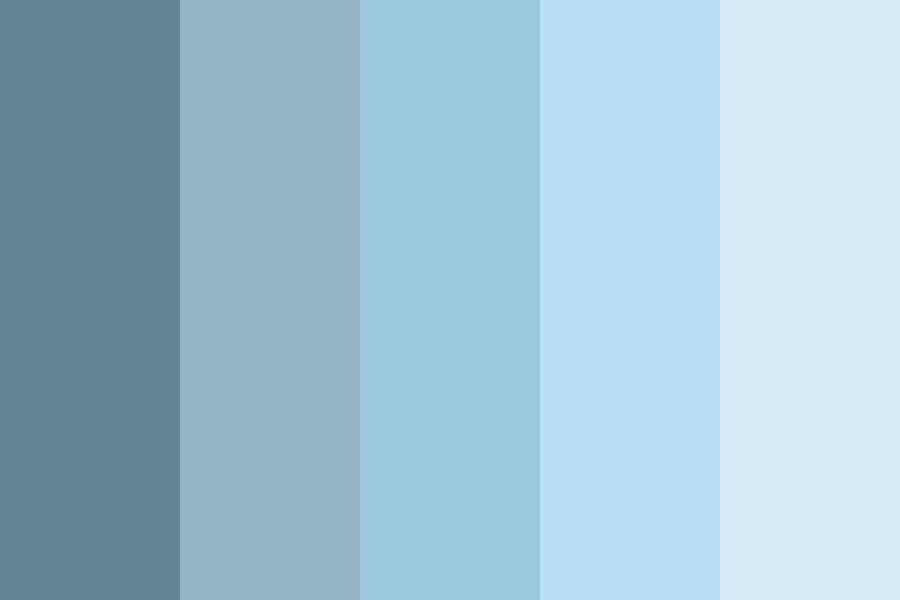
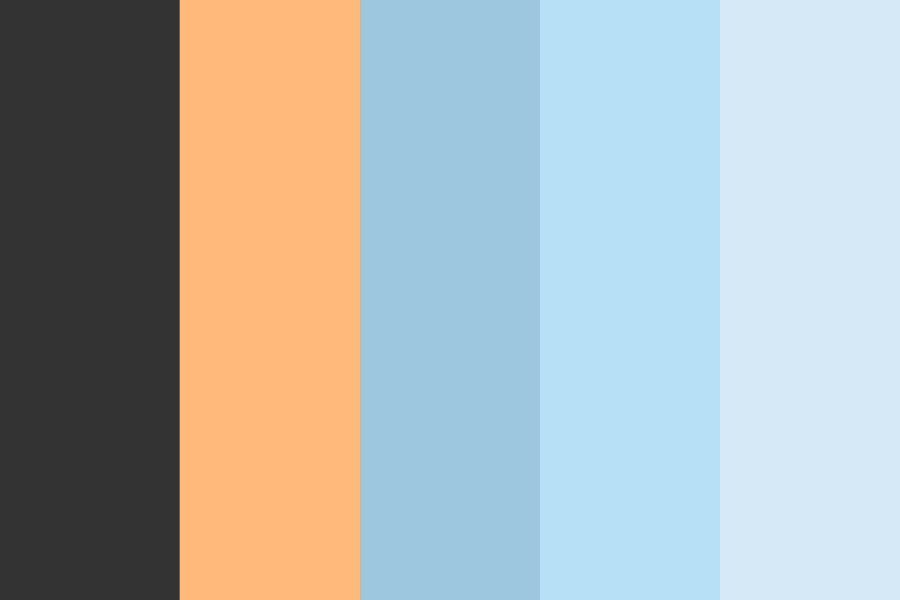
Site navigation Test run

diff --git a/index.html b/index.html
@@ -6,30 +6,132 @@
   <title>Imagination Printing</title>
     <link rel="stylesheet" href="css/main.css">
     <link rel="stylesheet" href="css/header.css">
+    <link rel="stylesheet" href="css/navigation.css">
+
+
+
+    <script>
+        function setCookie(cname, cvalue, exdays) {
+          var d = new Date();
+          d.setTime(d.getTime() + (exdays*24*60*60*1000));
+          var expires = "expires="+ d.toUTCString();
+          document.cookie = cname + "=" + cvalue + ";" + expires + ";path=/";
+          console.log(document.cookie)
+        }
+        
+        function getCookie(cname) {
+          var name = cname + "=";
+          var decodedCookie = decodeURIComponent(document.cookie);
+          var ca = decodedCookie.split(';');
+          for(var i = 0; i < ca.length; i++) {
+            var c = ca[i];
+            while (c.charAt(0) == ' ') {
+              c = c.substring(1);
+            }
+            if (c.indexOf(name) == 0) {
+              return c.substring(name.length, c.length);
+            }
+          }
+          return "";
+        }
+        function checkPage(cvalue) {
+          var c=getCookie('currentpage');
+          if (c == "") {
+            setCookie("currentpage", cvalue, 30);
+          }
+        }
+        
+        pages = ["home","about","gallery","services","contact"]
+        
+        function changePage(pagename) {
+            for(i = 0; i  < pages.length; i++) {
+                if(pagename == pages[i]) {
+                    document.getElementById(pages[i]).style.zIndex = 9;
+                    document.getElementById(pages[i]).style.opacity = 100;
+                    setCookie("currentpage",i,30);
+                    console.log(pages[i])
+                }
+                else {
+                    document.getElementById(pages[i]).style.zIndex = 0;
+                    document.getElementById(pages[i]).style.opacity = 0;
+                }
+            }
+        }
+        
+        function changeWindow(direction) {
+            var newpage = getCookie("currentpage")
+            if(direction == 'left') {
+                newpage -= 1
+                if(newpage < 0) {
+                  newpage = pages.length - 1
+                }
+            }
+            else if(direction == 'right') {
+                newpage += 1
+                if(newpage >= pages.length) {
+                  newpage = 0
+                }
+                else {
+        
+                }
+            }
+            console.log(newpage)
+            changePage(pages[newpage])
+        }
+        </script>
 </head>
-<body>
+<body onload="checkPage('home')">
 <div class="content">
     <div class="header" id="headerbar" >
-      <a href="#headerbardiv" class="logo">IMAGINATION PRINTING</a>
+      <a href="javascript:changePage('home')" class="logo">IMAGINATION PRINTING</a>
       <div class="header-right">
         <p>
-          <a class="navbarlink" id="link-about" href="#about" >about</a> |
-          <a class="navbarlink" id="link-gallery" href="#gallery"  >gallery</a> |
-          <a class="navbarlink" id="link-services"href="#services"  >services</a> |
-          <a class="navbarlink" id="link-contact"href="#contact"  >contact</a>
+          <a class="navbarlink" id="link-about" href="javascript:changePage('about')">about</a> |
+          <a class="navbarlink" id="link-gallery" href="javascript:changePage('gallery')" >gallery</a> |
+          <a class="navbarlink" id="link-services" href="javascript:changePage('services')" >services</a> |
+          <a class="navbarlink" id="link-contact"href="javascript:changePage('contact')" >contact</a>
         </p>
-        
-        
-        
       </div>
-      
+    </div>
+    <div class="nav-button" id="nav-button-left" onclick="changeWindow('left')">
+      <div class="vertical-container"><p> ‹ </p></div>
+    </div>
+    <div class="nav-button" id="nav-button-right" onclick="changeWindow('right')">
+      <div class="vertical-container"><p> › </p></div>
     </div>
 
+    <div class="page-content">
+      <div id="home">
+          <video autoplay muted loop id="home-video">
+            <source src="media/timelapse1-web.mp4" type="video/mp4">
+            Your browser does not support the video tag.
+          </video>
+      </div>
+
+      <div id="about">
 
 
+      </div>
+
+      <div id="gallery">
+
+
+      </div>
+
+      <div id="services">
+
+      </div>
+
+      <div id="contact">
+
+      </div>
+
+    </div>
 </div>
 
 
-  
+
+
+
 </body>
 </html>

diff --git a/js/nav.js b/js/nav.js
@@ -1,24 +1,31 @@
-heights = [];
-for (i = 0, len = document.getElementsByClassName("section").length; i < len; i++) {
-    div = document.getElementsByClassName("section")[i]
-    heights.push(div.offsetHeight)
-}
-updateDivs()
-function updateDivs() {
+pages = ["home","about","gallery","services","contact"]
 
-    height = document.getElementById("headerbar").offsetHeight;
-    
-    for (i = 0, len = document.getElementsByClassName("section").length; i < len; i++) {
-        div = document.getElementsByClassName("section")[i]
-        div.style.marginTop = "-" + height.toString() + "px";
-    }
-    for (i = 0, len = document.getElementsByClassName("section_title").length; i < len; i++) {
-        div = document.getElementsByClassName("section_title")[i]
-        div.style.paddingTop = height.toString() + "px";
+function changePage(pagename) {
+    for(page in pages) {
+        if(pagename == page) {
+            document.getElementById(page).style.zIndex = 9;
+            document.getElementById(page).style.opacity = 100;
+        }
+        else {
+            document.getElementById(page).style.zIndex = 0;
+            document.getElementById(page).style.opacity = 0;
+        }
     }
 }
 
-for (i = 0, len = document.getElementsByClassName("navbarlink").length; i < len; i++) {
-    button = document.getElementsByClassName("navbarlink")[i]
-    button.onclick = function(){updateDivs()};
+function changeWindow(direction) {
+    var currentpageID = -1
+    for(i = 0; i  < pages.length; i++) {
+        if(document.getElementById(pages[i]).style.opacity == 100) {
+            currentpageID = i
+        }
+    }
+    var newpage = currentpageID
+    if(direction == 'left') {
+        newpage -= 1
+    }
+    else if(direction == 'right') {
+        newpage += 1
+    }
+    changePage(pages[newpage])
 }

diff --git a/css/header.css b/css/header.css
@@ -4,6 +4,8 @@
   background-color: #9cc7df;
   width: 100%;
   height: 90px;
+  border-bottom: #333333 2px solid; 
+  z-index: 999
 }
 
 .logo {
@@ -14,7 +16,7 @@
   top: 50%;
   position: relative;
   font-size: 56px;
-  color: #466482;
+  color: #333333;
   text-decoration: none;
 }
 
@@ -26,16 +28,16 @@
   top: 50%;
   position: relative;
   font-size: 48px;
-  color: slategray;
+  color: #333333;
 }
 
 .navbarlink {
   margin-left: 5px;
   margin-right: 5px;
-  color: #466482;
+  color: #333333;
 }
 .navbarlink:hover {
-  color: slategray;
+  color: #466482;
 }
 
 

diff --git a/css/main.css b/css/main.css
@@ -11,7 +11,7 @@ html, body
     text-align: center;
     position: static;
     top: 0;
-    height: 200vh;
+    height: 100vh;
     border:0;
     background-color: #f5f5f5;
 }
@@ -20,4 +20,22 @@ p, a, label, input
 {
     font-family: 'Sen', sans-serif;
     font-weight: 500;
+}
+
+.vertical-container {
+    display: flex;
+    text-align: center;
+    margin: auto; 
+    height: 100%
+}
+
+.page-content {
+    width: auto;
+    margin: 0 auto;
+    align-content: center;
+}
+
+#home-video {
+    width: auto;
+    height: auto;
 }

diff --git a/css/navigation.css b/css/navigation.css
@@ -1,0 +1,25 @@
+.nav-button {
+    position: fixed;
+    background: #333333;
+    height: 100%;
+    width: 80px;
+    font-size: 80px;
+    color: #d5eaf6;
+    opacity: 40%;
+    z-index: 666;
+}
+.nav-button:hover {
+    opacity: 60%;
+}
+.nav-button:hover p {
+    color: #ffb97b;
+}
+.nav-button:active {
+    opacity: 80%;
+}
+.nav-button p {
+    margin: auto;
+}
+#nav-button-right {
+    right: 0;
+}

diff --git a/about.html b/about.html
@@ -1,7 +1,7 @@
 <!-- About Page -->
 
-<div class="section">
-  <p class="section_title" id="about"><a class="navbarlink" id="link-about" href="#about">ABOUT</a></p>
+<div class="section" id="about">
+  <p class="section_title"><a class="navbarlink" id="link-about" href="#about">ABOUT</a></p>
   <div class="innersection">
     <div id="personal">
       <div class="container">

diff --git a/home.css b/home.css
@@ -1,0 +1,3 @@
+#home-video {
+    width: 800px;    
+}
